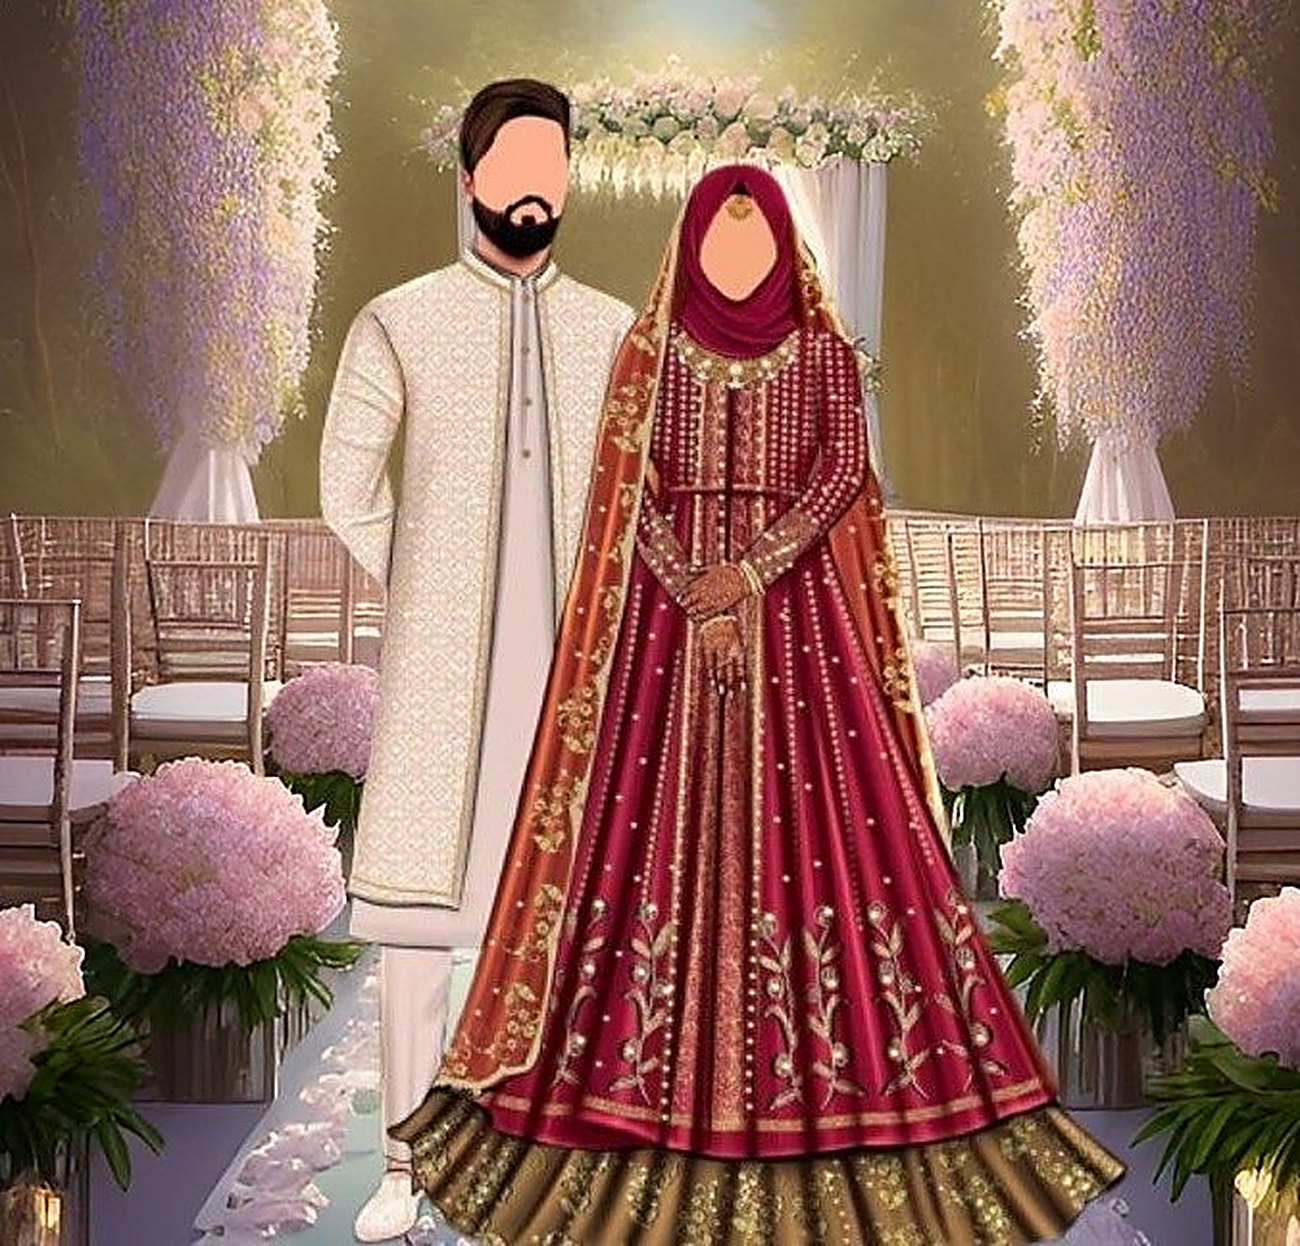
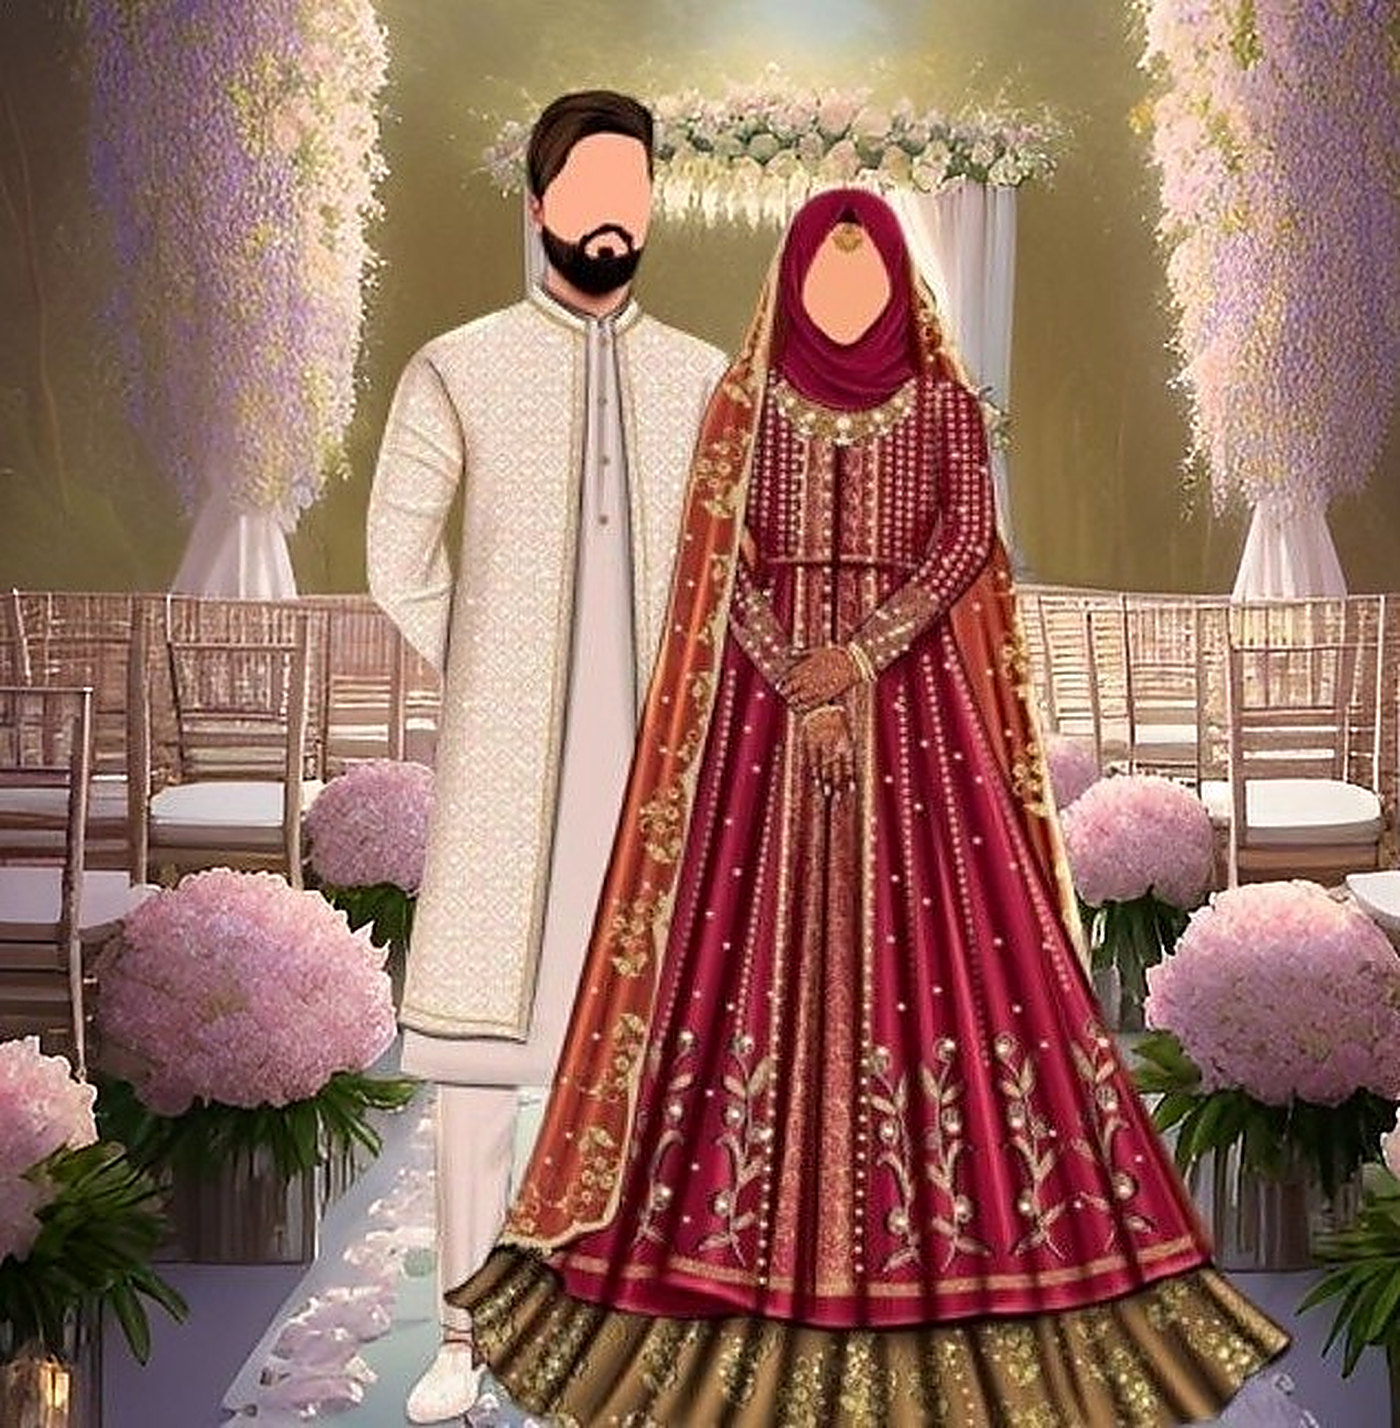
Hero: center new couple photo full screen

diff --git a/frontend/src/components/sections/Hero.jsx b/frontend/src/components/sections/Hero.jsx
@@ -47,28 +47,28 @@ export default function Hero({ data }) {
       <div aria-hidden="true" className="absolute inset-0 overflow-hidden bg-[#03140e]">
         {/* Ambient fill so the screen stays covered edge to edge */}
         <img
-          src="/images/hero-couple.jpg?v=10"
+          src="/images/hero-couple.jpg?v=11"
           alt=""
           aria-hidden="true"
-          className="absolute inset-0 h-full w-full scale-[1.14] object-cover object-[55%_30%] blur-[6px] sm:object-[52%_28%]"
+          className="absolute inset-0 h-full w-full scale-[1.12] object-cover object-[50%_30%] blur-[6px]"
         />
         <div className="absolute inset-0 bg-emerald-950/62" />
 
         {/* Full-bleed photograph centered on screen */}
         <img
-          src="/images/hero-couple.jpg?v=10"
-          srcSet="/images/hero-couple-mobile.jpg?v=10 1300w, /images/hero-couple.jpg?v=10 2163w"
+          src="/images/hero-couple.jpg?v=11"
+          srcSet="/images/hero-couple-mobile.jpg?v=11 1400w, /images/hero-couple.jpg?v=11 2286w"
           sizes="100vw"
           alt=""
           loading="eager"
           decoding="async"
           fetchPriority="high"
-          className="absolute inset-0 h-full w-full object-cover object-[55%_28%] sm:object-[52%_26%]"
+          className="absolute inset-0 h-full w-full object-cover object-center"
           style={{
             maskImage:
-              "linear-gradient(to bottom, transparent 0%, #000 10%, #000 90%, transparent 100%)",
+              "linear-gradient(to bottom, transparent 0%, #000 9%, #000 91%, transparent 100%)",
             WebkitMaskImage:
-              "linear-gradient(to bottom, transparent 0%, #000 10%, #000 90%, transparent 100%)"
+              "linear-gradient(to bottom, transparent 0%, #000 9%, #000 91%, transparent 100%)"
           }}
         />
 
